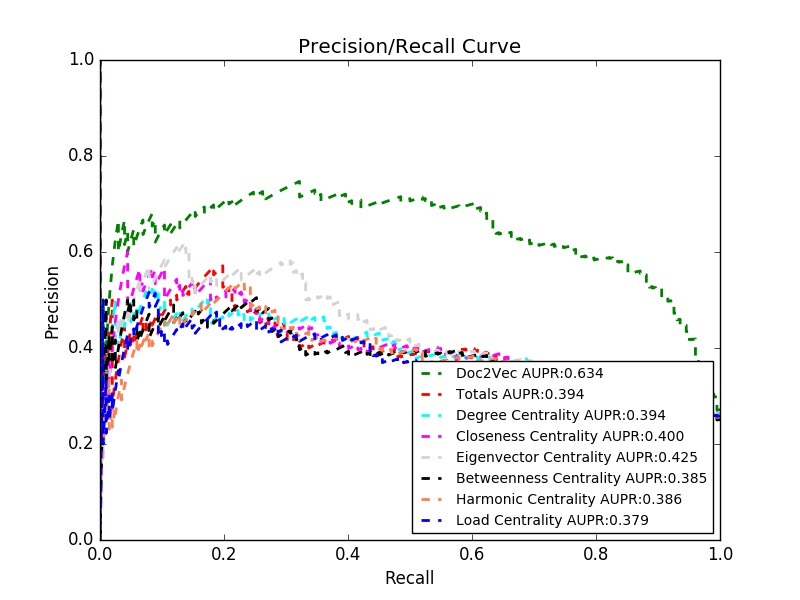
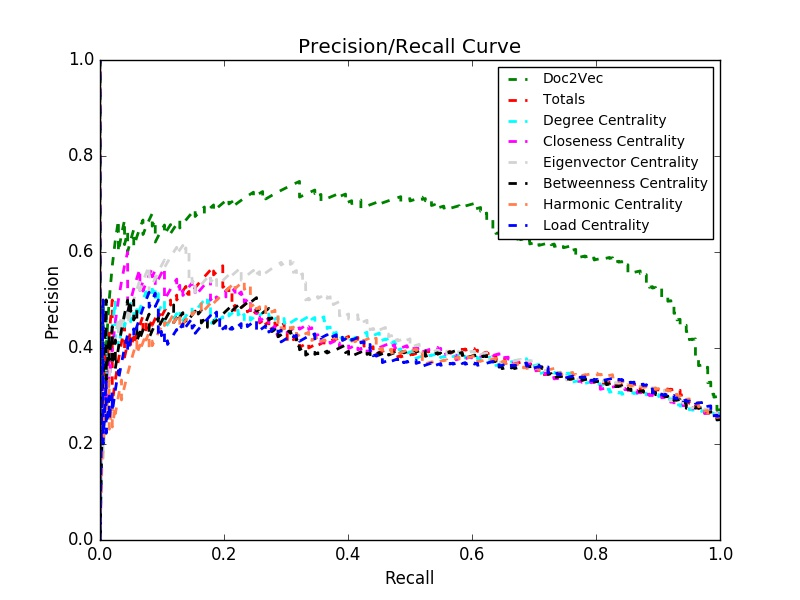
update matplotlib.pyplot

Changed region(s): [[0.5, 0.6, 0.9062, 0.9], [0.5938, 0.09, 0.9062, 0.42]]

diff --git a/plot_PR.py b/plot_PR.py
@@ -31,9 +31,9 @@ for i, filename in enumerate(image_list):
         y_score, y_label = pickle.load(file)
         precision, recall, _ = precision_recall_curve(y_label, y_score)
         aupr = auc(recall, precision)
-        plt.plot(recall, precision, 'k--', color=colors[i], label='%s AUPR:%.3f' % (legends[i], aupr), lw=2)
-
-plt.legend(loc="lower right", fontsize='small')  # after plt.plot
+        # plt.plot(recall, precision, 'k--', color=colors[i], label='%s AUPR:%.3f' % (legends[i], aupr), lw=2)
+        plt.plot(recall, precision, 'k--', color=colors[i], label='%s' % (legends[i]), lw=2)
+plt.legend(loc="upper right", fontsize='small')  # after plt.plot
 
 plt.savefig('PR.jpg')
 plt.show()
